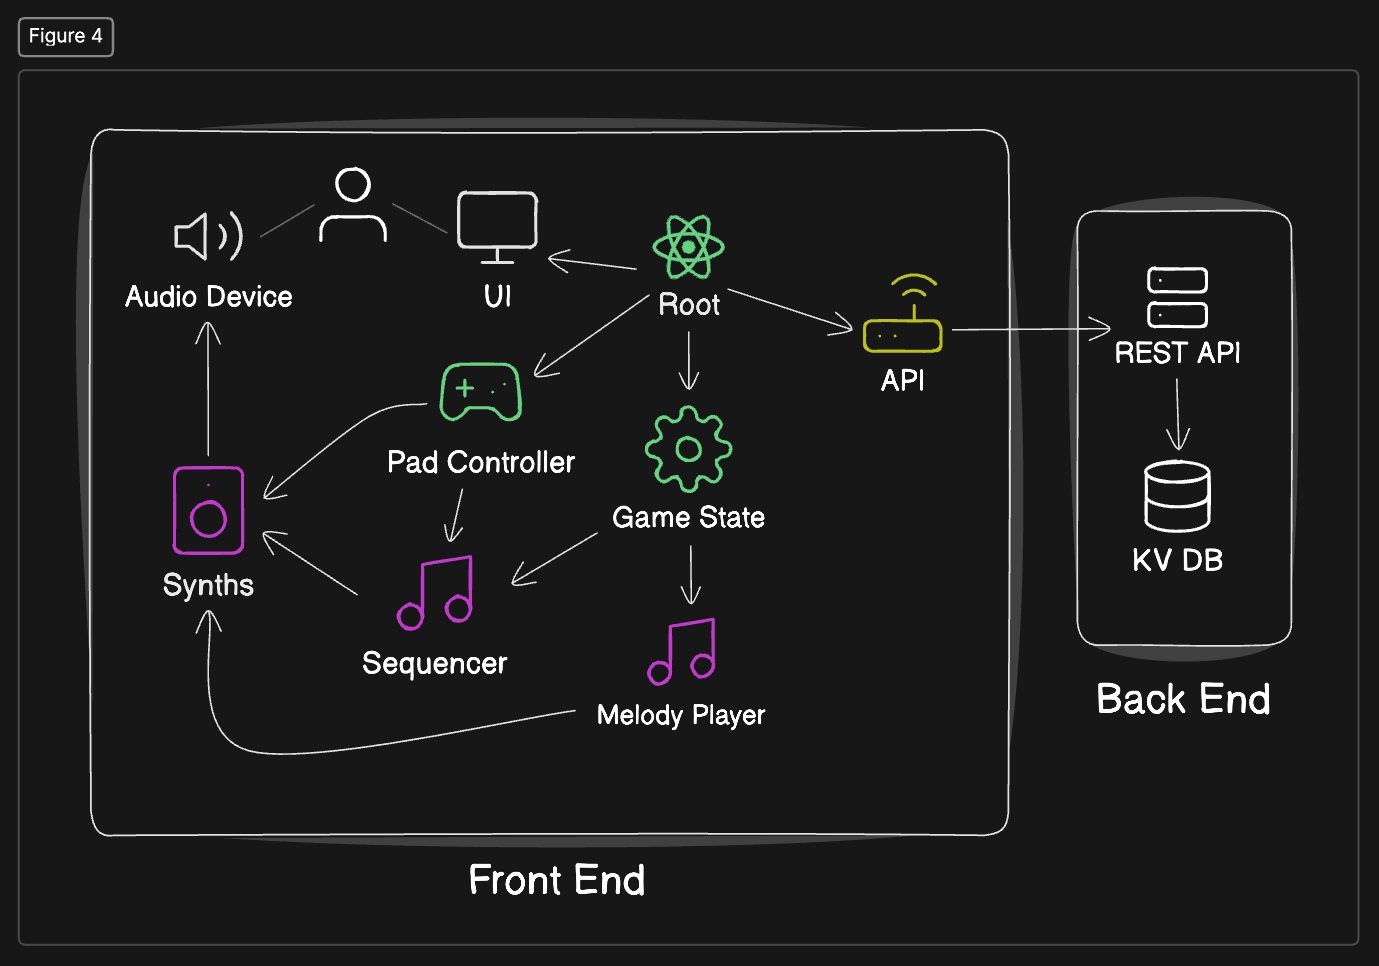
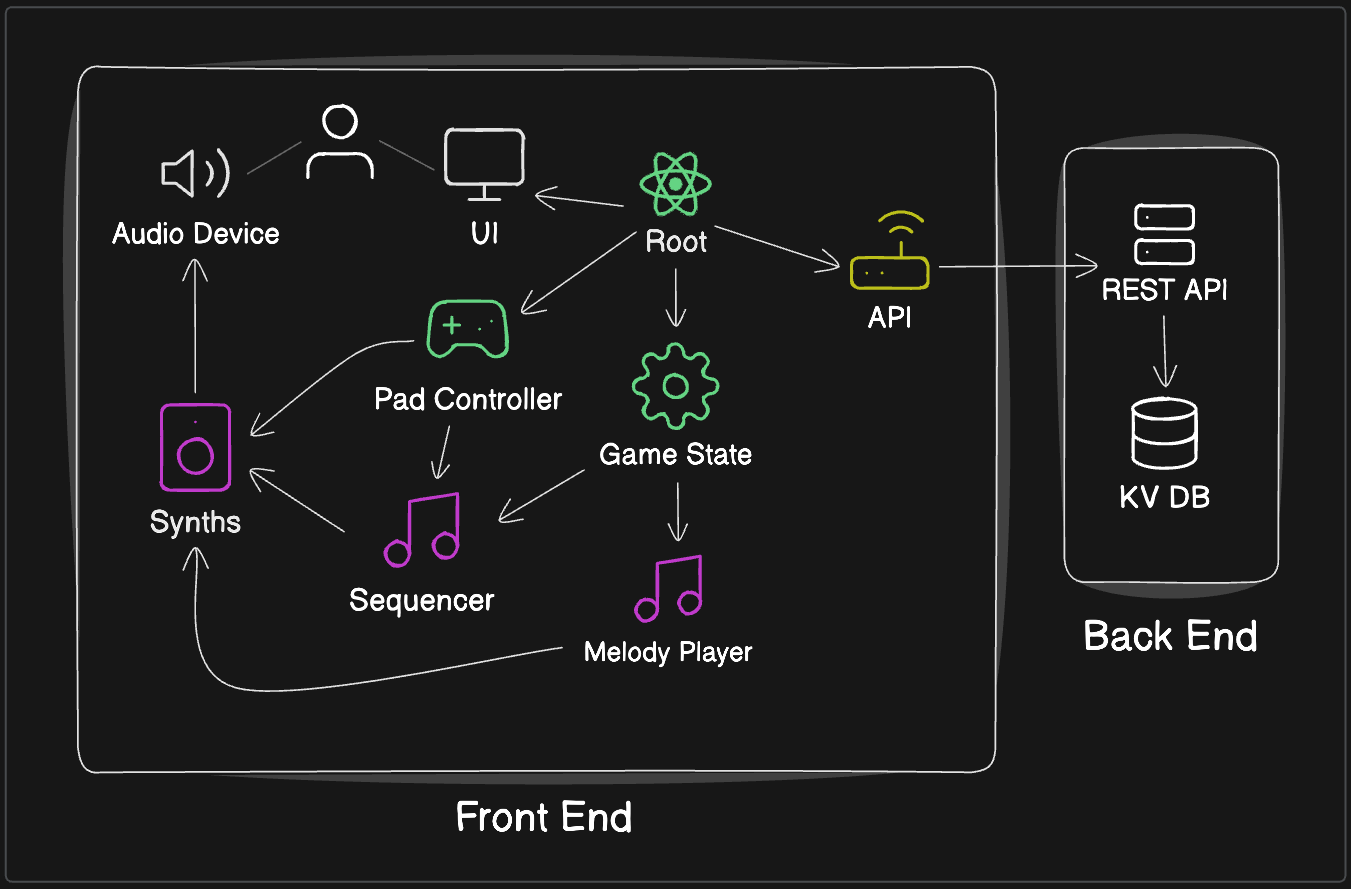
Update README and some cleanup (#127)
* update readme

* crop img

* build server types

* revert change to tsconfig

diff --git a/client/src/server-types.d.ts b/client/src/server-types.d.ts
@@ -43,7 +43,11 @@ declare module "high-score" {
             $get: {
                 input: {};
                 output: {
-                    highScore: any;
+                    highScore: {
+                        name: string;
+                        score: number;
+                        timestamp: number;
+                    };
                 };
                 outputFormat: "json";
                 status: 200;
@@ -80,7 +84,11 @@ declare module "index" {
             $get: {
                 input: {};
                 output: {
-                    highScore: any;
+                    highScore: {
+                        name: string;
+                        score: number;
+                        timestamp: number;
+                    };
                 };
                 outputFormat: "json";
                 status: 200;

diff --git a/README.md b/README.md
@@ -1,10 +1,118 @@
 # Simon
 
+This is a case study in application architecture for the classic memory game Simon. The game requires the user to play back a computer generated sequence of notes that increases in length each turn.
+
+Play now! https://simon.codenickycode.com
+
+## Architecture
+
 ![architecture diagram](./docs/simon-arch.png)
 
-# Debug
+### Front End
 
-## Server starts on wrong port locally
+This application uses [React](https://react.dev) to separate data, logic, and visual elements into separate components. State is maintained via React hooks, and UI is rendered as html via jsx. Musical sequencing and synthesis is made possible by [Tone.js](https://tonejs.github.io/), an abstraction over the Web Audio API. It is deployed via [Cloudflare Pages](https://developers.cloudflare.com/pages/).
+
+#### [Root](./client/src/simon.tsx)
+
+The parent function that orchestrates all other components to fetch data, maintain state, and render UI. This is the root of our React application.
+
+#### [API](./client//src/services/api.high-score.ts)
+
+A service to retrieve and update the global high score from our back end API. This component stores the pending, success, and error states of all requests.
+
+#### [Game State](./client/src/components/use-game-machine.ts)
+
+A finite state machine that maintains the status of the game: New Game, Computer Turn, User Turn, Game Over. It uses the [state reducer pattern](https://kentcdodds.com/blog/the-state-reducer-pattern-with-react-hooks), accepting a single action to transition state and update the user's current score.
+
+#### [Pad Controller](./client/src/components/use-pad-controller.ts)
+
+A stateful hook that controls the "active" status of each pad and provides methods for accepting user and computer pad input.
+
+#### [Melody Player](./client/src/services/melody-player.ts)
+
+Preset melodies to play when entering the game over state.
+
+#### [Sequencer](./client/src/services/sequencer.ts)
+
+Builds a sequence of notes as the game progresses. These are the notes the user must repeat in order to continue playing. The sequencer plays tones using a synth and is observed by the pad controller to set the current playing pad as active.
+
+#### Synths
+
+These are `Tone.Synth` instances that receive input from the pad controller, melody player, and sequencer to emit tones to the audio device. See [Tone.js | Class Synth](https://tonejs.github.io/docs/15.0.4/classes/Synth.html)
+
+### Back End
+
+The back end is a simple [Hono](https://hono.dev/) REST API on [Cloudflare Workers](https://developers.cloudflare.com/workers/) and a [Cloudflare KV](https://developers.cloudflare.com/kv/) database. It exposes retrieving and updating a global high score.
+
+# Development
+
+## Getting Started
+
+### Pre-requisites
+
+1. [pnpm](https://pnpm.io/installation) v9 and above
+2. [node](https://nodejs.org/en/download/package-manager/current) v22.9.0 and above
+
+### Installation
+
+1. Ensure you're using the correct version of Node:
+
+   ```sh
+   nvm use 22.9.0
+   ```
+
+2. If necessary, install the correct version of pnpm:
+
+   ```sh
+   npm i -g pnpm@9
+   ```
+
+3. Install dependencies
+
+   ```sh
+   pnpm i
+   ```
+
+4. Start local dev server
+
+   ```sh
+   pnpm run dev
+   ```
+
+### Deployment Configuration
+
+1. Follow instructions in [README.cloudflare](./README.cloudflare/README.cloudflare.md)
+
+2. Follow instructions in [README.sentry](./README.sentry/README.sentry.md)
+
+### Deploying a branch to stage
+
+1. Click the "Actions" tab
+2. Select the "stage" workflow
+3. Open the dropdown for "Run workflow" and select the branch you wish to deploy
+4. Choose your deploy target (client, server, both)
+5. Click "Run workflow"
+
+The client app will deploy to the preview url, and the server will deploy to your staging worker.
+
+## Scripts
+
+- `pnpm run dev`: Start the development server
+- `pnpm run lint`: Run ESLint
+- `pnpm run test`: Run unit tests with Vitest
+- `pnpm run typecheck`: Run TypeScript type checking
+- `pnpm run format`: Format code with Prettier
+- `pnpm run e2e`: Run end-to-end tests with Playwright
+
+Some convenience scripts for shortcuts:
+
+- `pnpm run clean`: Execute a clean install of package dependencies
+- `pnpm run client <script>`: Run a script within the client package only
+- `pnpm run server <script>`: Run a script within the server package only
+
+## Debug
+
+### Server starts on wrong port locally
 
 Sometimes the server fails to shutdown, leaving an instance listening to port 8787. The next time you run `pnpm run server dev`, it will start a new instance and listen to a random port. Running `killall workerd` does not seem to fix it. Instead, get any `workerd` process ID listening to port 8787 (there may be several) and kill it. On macOS:
 
@@ -12,3 +120,19 @@ Sometimes the server fails to shutdown, leaving an instance listening to port 87
 lsof -i :8787
 kill -9 <pid>
 ```
+
+## References
+
+- [React](https://react.dev) SPA for the client-side application
+- [Tailwind CSS](https://tailwindcss.com/) for styling
+- [Tanstack Query](https://tanstack.com/query/latest) for client http request state management
+- [Hono](https://hono.dev/) server-side api framework
+- [Prettier](https://prettier.io/) for code formatting
+- [ESLint](https://eslint.org/) for linting
+- [Vitest](https://vitest.dev/) for unit testing
+- [Playwright](https://playwright.dev/) for end-to-end testing
+- [TypeScript](https://www.typescriptlang.org/) for type checking
+- [Cloudflare](https://cloudflare.com) Pages for hosting the client, Worker with KV storage for hosting the server
+- [GitHub](https://github.com) workflows for CI and staging deployment
+- [Sentry](https://sentry.io/) integration for client-side error tracking
+- [pnpm](https://pnpm.io) for performant monorepo package management
